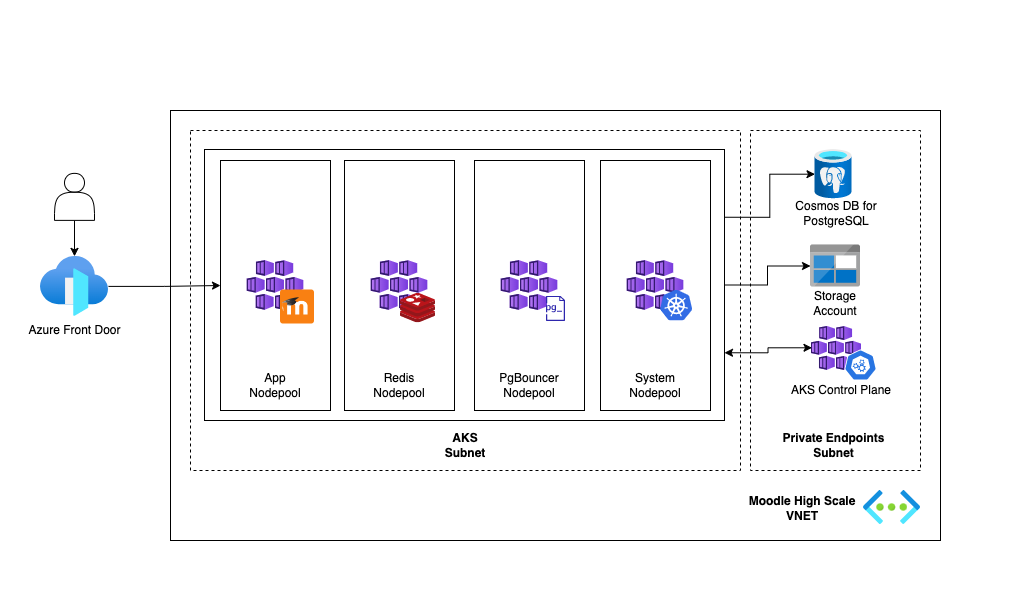
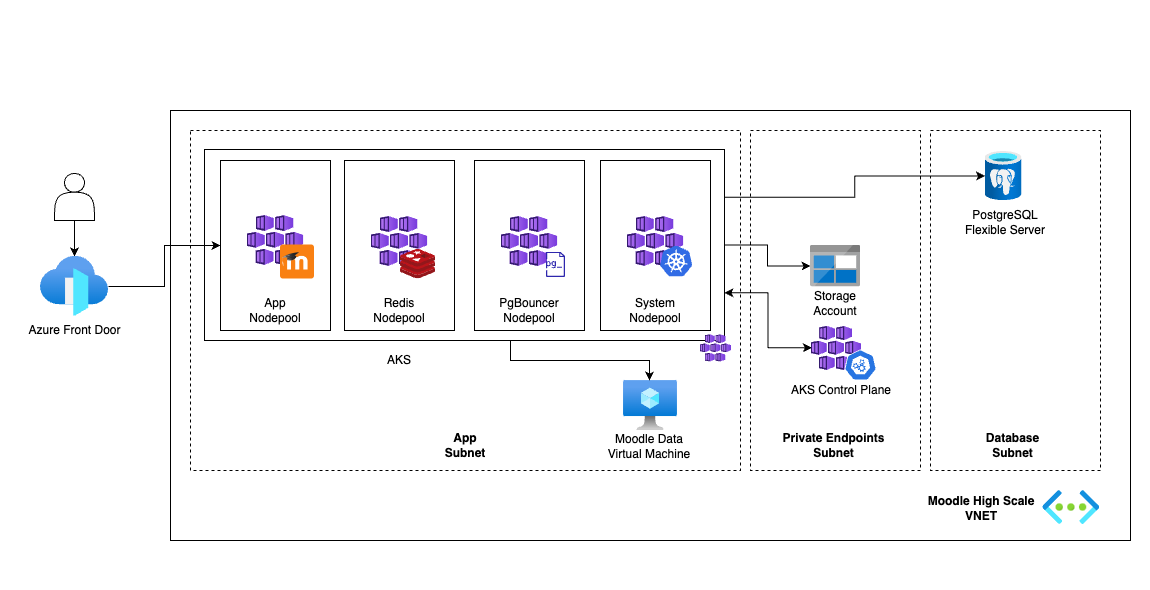
updating architecture and readme

diff --git a/readme.md b/readme.md
@@ -2,7 +2,7 @@
 
 This project deploys a robust infrastructure on Azure to handle a high scale moodle installation, this environment is able - and tested - to handle **200k concurrent users**.
 
-It uses Azure Kubernetes Service to run Moodle, Azure Storage Account to host course content, Azure CosmosDB for PostgreSQL as its database and Azure Front Door to expose the application to the public as well as caching common used assets.
+It uses Azure Kubernetes Service to run Moodle, Azure Storage Account to host course content, Azure Database for PostgreSQL Flexible Server as its database and Azure Front Door to expose the application to the public as well as caching common used assets.
 
 ![Architecture](moodle-high-scale.png)
 
